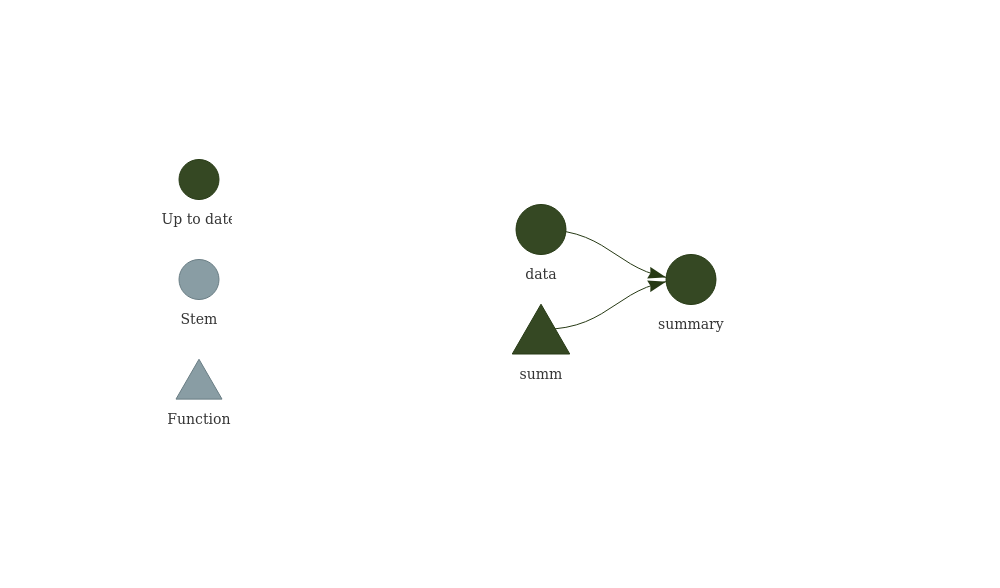
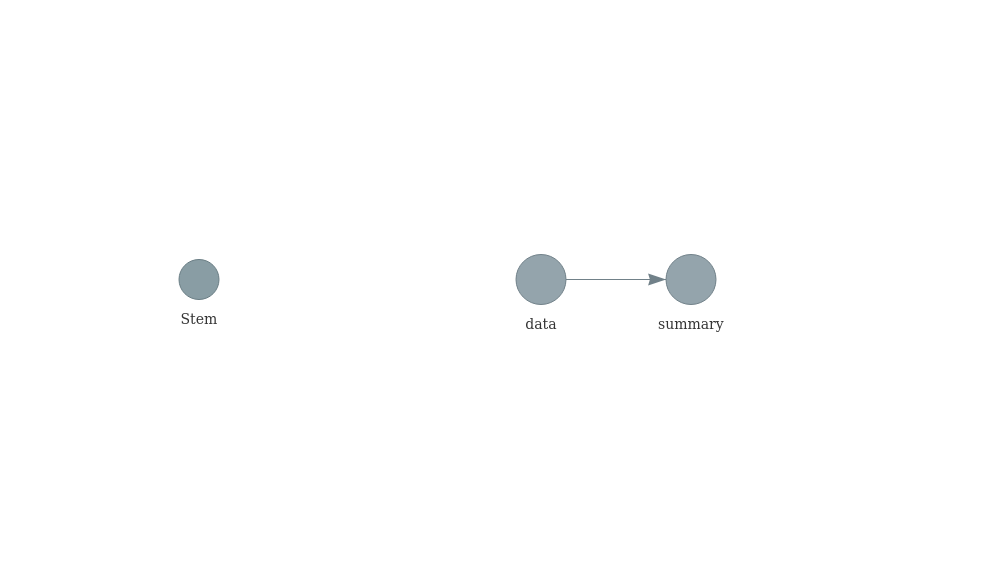
Plan for chagne

diff --git a/01_walkthrough.md b/01_walkthrough.md
@@ -44,6 +44,7 @@ library(targets)
 # This is where you write source(\"R/functions.R\")
 # if you keep your functions in external scripts.
 summ <- function(dataset) {
+  Sys.sleep(5)
   summarize(dataset, mean_x = mean(x))
 }
 
@@ -64,19 +65,27 @@ Open \_targets.R for editing.
 tar_edit()
 ```
 
+Quickly glimpse the pipeline before an expensive run.
+
+``` r
+tar_glimpse()
+```
+
+![](01_walkthrough_files/figure-gfm/unnamed-chunk-5-1.png)<!-- -->
+
 Run a pipeline of targets.
 
 ``` r
 tar_make()
 ```
 
-Visualize an abridged fast dependency graph.
+Visualise the pipeline once again (slower than `tar_glimpse()`)
 
 ``` r
 tar_visnetwork()
 ```
 
-![](01_walkthrough_files/figure-gfm/unnamed-chunk-5-1.png)<!-- -->
+![](01_walkthrough_files/figure-gfm/unnamed-chunk-6-1.png)<!-- -->
 
 Use the targets we have just made, e.g. to report your analysis results.
 
@@ -101,4 +110,24 @@ tar_read(summary)
 plot(data)
 ```
 
-![](01_walkthrough_files/figure-gfm/unnamed-chunk-6-1.png)<!-- -->
+![](01_walkthrough_files/figure-gfm/unnamed-chunk-7-1.png)<!-- -->
+
+## Compare
+
+-   Add `Sys.sleep(3)` into `summ()`.
+-   Compare running `tar_make()` vs. this, two or more times:
+
+``` r
+library(dplyr)
+
+summ <- function(dataset) {
+  Sys.sleep(3)
+  summarize(dataset, mean_x = mean(x))
+}
+
+data <- data.frame(x = sample.int(100), y = sample.int(100))
+
+system.time(
+  summ(data)
+)
+```

diff --git a/README.md b/README.md
@@ -25,6 +25,7 @@ Objectives:
 -   Learn the most useful functions:
     -   `tar_script()`.
     -   `tar_edit()`.
+    -   `tar_glimpse()`.
     -   `tar_make()`.
     -   `tar_visnetwork()`.
     -   `tar_objects()`.
